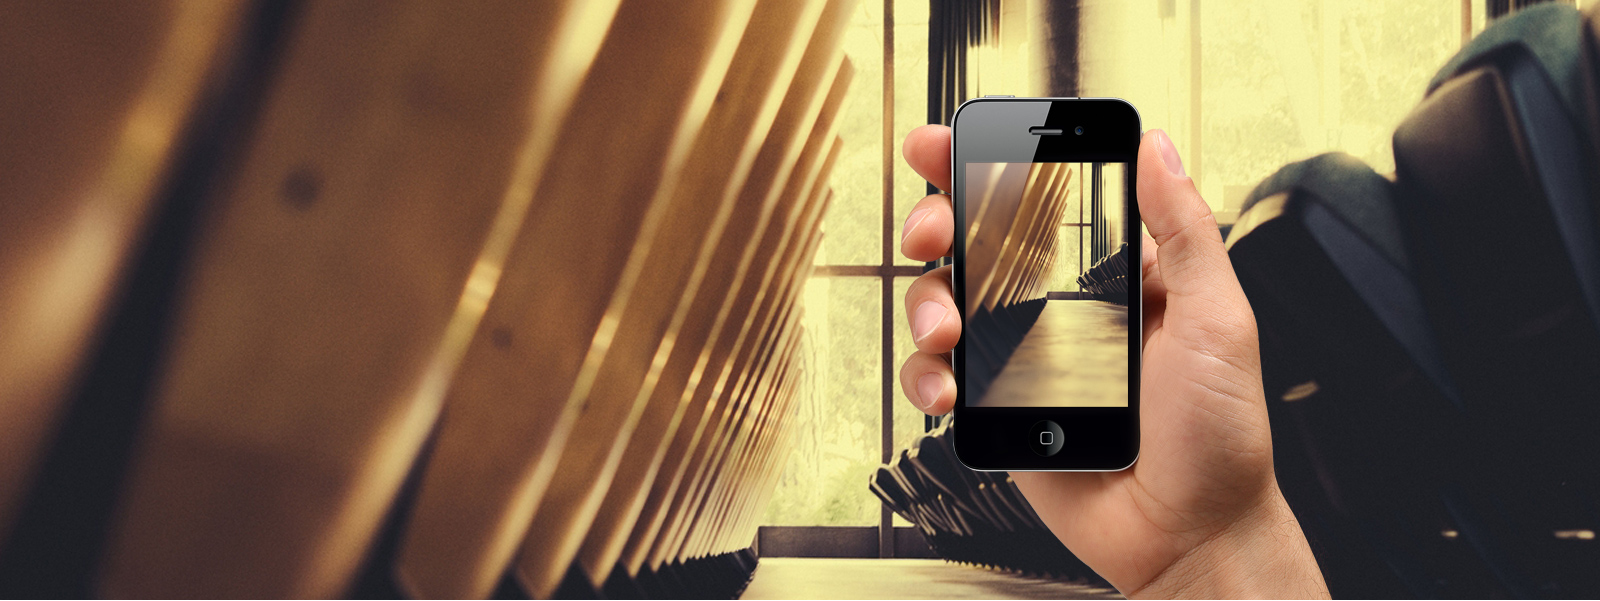
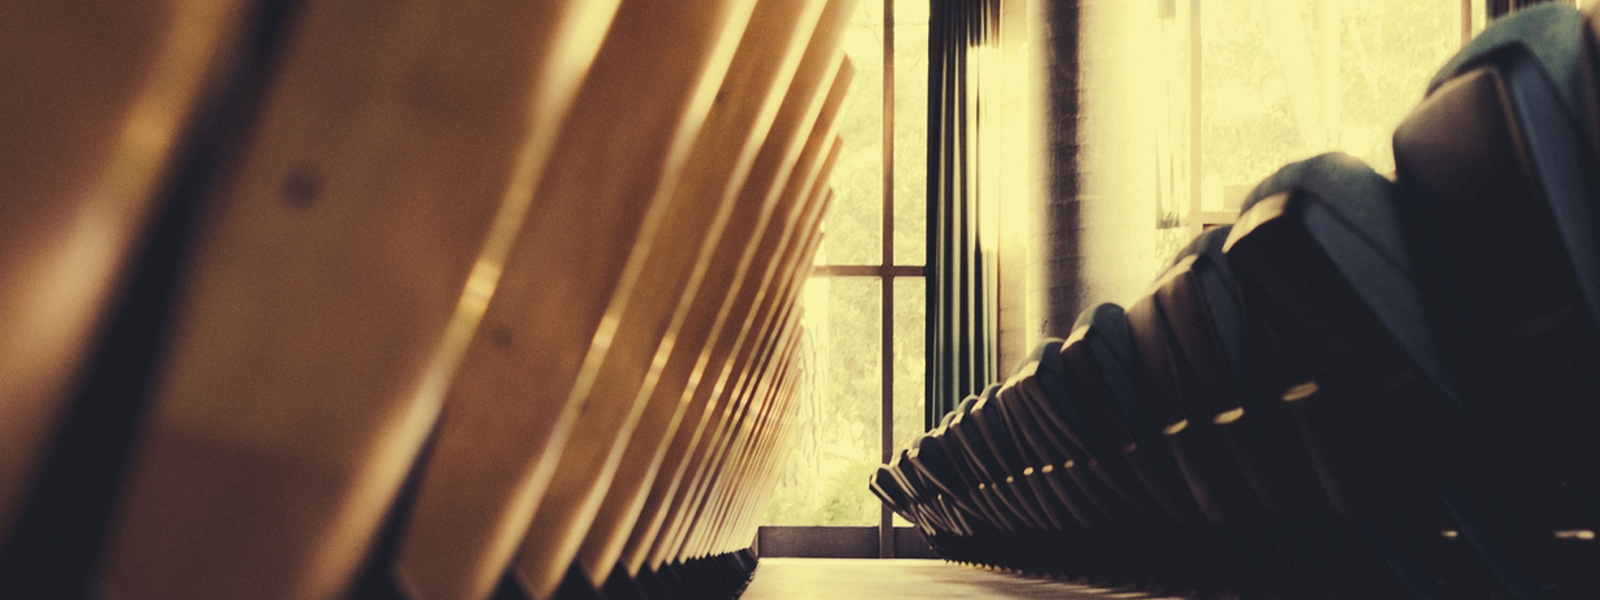
Add slide in effect in header image

Changed region(s): [[0.5625, 0.1498, 0.8438, 1.0]]

diff --git a/src/styles/_base.scss b/src/styles/_base.scss
@@ -71,7 +71,7 @@ img {
   padding: 100px 0;
   transform: translate3d(0,0,0);
   z-index: -1;
-  &:after {
+  &:before {
     content: '';
     position: absolute;
     top: 0;
@@ -81,8 +81,30 @@ img {
     background-image: url(../images/hero.jpg);
     background-size: cover;
     background-repeat: no-repeat;
-    transition: .5s;
     z-index: -1;
+  }
+  &:after {
+    content: '';
+    position: absolute;
+    top: 85px;
+    left: 100%;
+    width: 100%;
+    height: 100%;
+    background-image: url(../images/iphone.png);
+    background-repeat: no-repeat;
+    z-index: 1;
+    animation-name: outin;
+    animation-duration: 1.5s;
+    animation-delay: 4s;
+    animation-fill-mode: forwards;
+    @keyframes outin {
+      0% {
+        left: 100%;
+      }
+      100% {
+        left: 56%;
+      }
+    }
   }
   &__title {
     margin: 25px 0;
